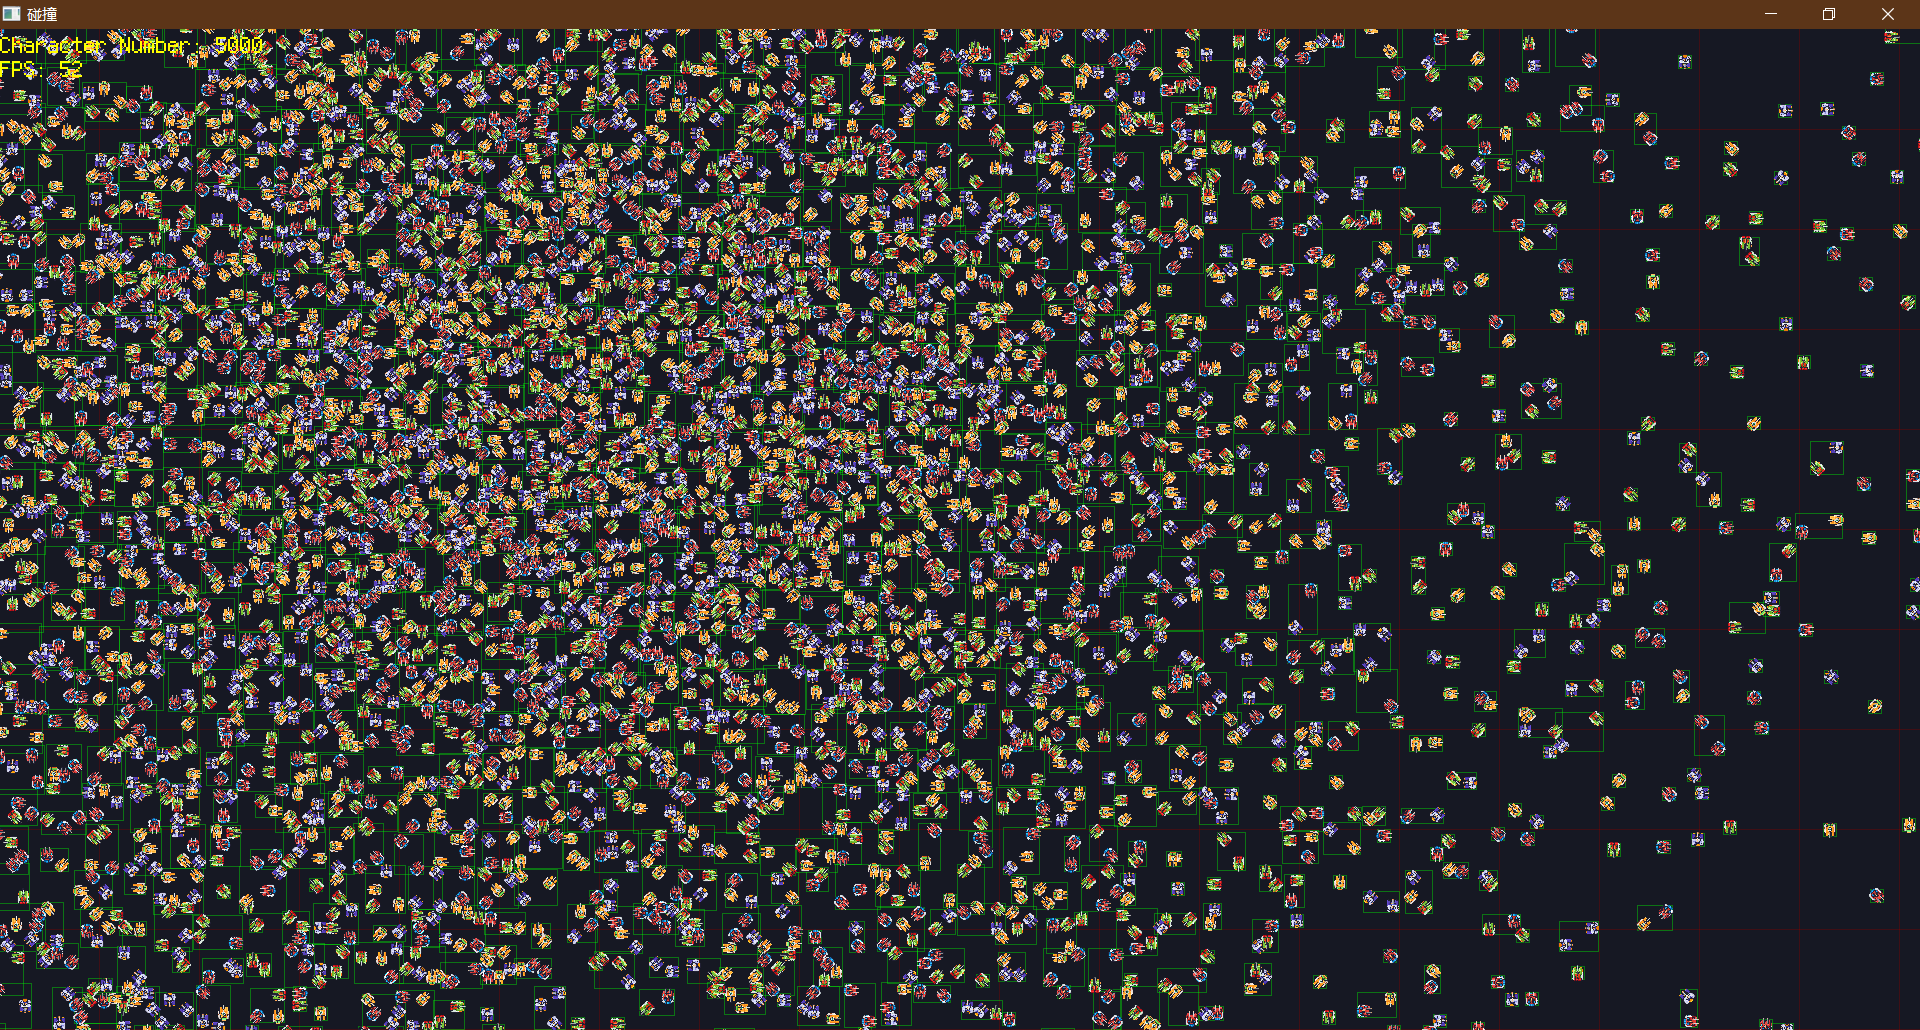
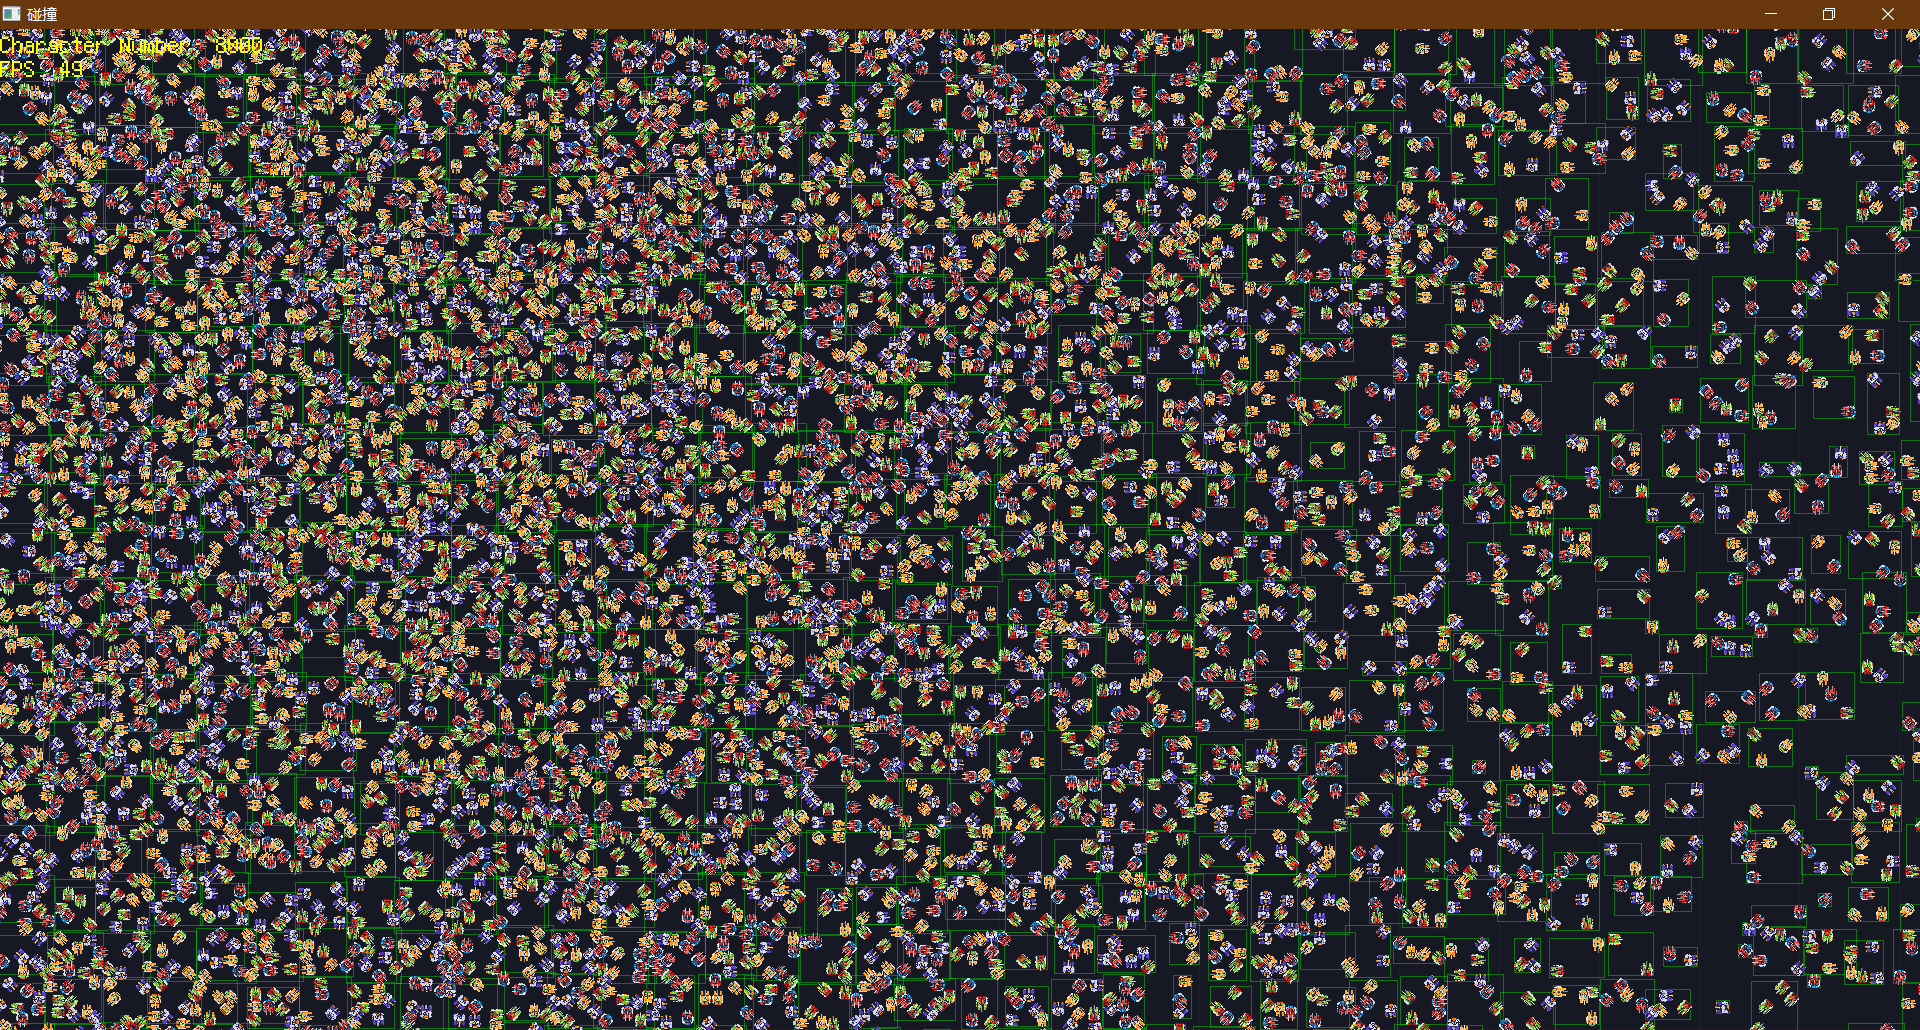
[dgrid] fine tuning several parameters

diff --git a/dgrid/globals.h b/dgrid/globals.h
@@ -15,7 +15,7 @@ const int INIT_HEIGHT = 800;
 
 const int ACTORS = 4;
 
-const int MAX = 5000;
+const int MAX = 8000;
 
 const int PNG_WIDTH = 64;
 const int PNG_HEIGHT = 64;
@@ -30,8 +30,8 @@ const int GRID_HEIGHT = 1200;
 const int CELL_WIDTH = 40;
 const int CELL_HEIGHT = 40;
 
-const int LCELL_WIDTH = 40;
-const int LCELL_HEIGHT = 40;
+const int LCELL_WIDTH = 50;
+const int LCELL_HEIGHT = 50;
 const int TCELL_WIDTH = 100;
 const int TCELL_HEIGHT = 100;
 
